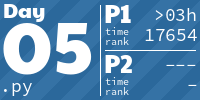
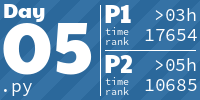
2023 - Day 5
Contains at least one off-by-one error, but yielded correct answer for part 2 anyways

Changed region(s): [[0.72, 0.78, 0.99, 0.93], [0.78, 0.57, 0.99, 0.72]]

diff --git a/ibidem/advent_of_code/y2023/dec05.py b/ibidem/advent_of_code/y2023/dec05.py
@@ -1,7 +1,51 @@
 #!/usr/bin/env python
+import functools
 import itertools
+from collections import namedtuple
+from typing import Iterable
 
 from ibidem.advent_of_code.util import get_input_name
+
+
+class Range(namedtuple("Range", ("start", "length"))):
+    @property
+    def end(self):
+        return self.start + self.length
+
+
+@functools.total_ordering
+class RangeMap:
+    def __init__(self, dest_start, source_start, length):
+        self.dest_start = dest_start
+        self.source_start = source_start
+        self.length = length
+        self._source_end = source_start + length
+
+    def __eq__(self, other):
+        return (self.dest_start, self.source_start, self.length) == (other.dest_start, other.source_start, other.length)
+
+    def __lt__(self, other):
+        return (self.dest_start, self.source_start, self.length) < (other.dest_start, other.source_start, other.length)
+
+    def cut(self, range: Range) -> (Iterable[Range], Iterable[Range]):
+        """Divide range into mapped and unmapped parts."""
+        if range.end <= self.source_start:  # Range is fully before
+            return [range], []
+        if range.start > self._source_end:  # Range is fully after
+            return [range], []
+        if range.start >= self.source_start and range.end <= self._source_end:  # Range is fully inside
+            return [], [Range(self.dest_start + range.start - self.source_start, range.length)]
+
+        if range.start < self.source_start and range.end < self._source_end:  # Range overlaps before
+            return [Range(range.start, self.source_start - range.start)], [
+                Range(self.dest_start, range.length - (self.source_start - range.start))]
+        if self.source_start <= range.start < self._source_end < range.end:  # Range overlaps after
+            return [Range(self._source_end, range.end - self._source_end)], [
+                Range(self.dest_start + range.start - self.source_start, self._source_end - range.start)]
+        # Range completely contains
+        return [Range(range.start, self.source_start - range.start),
+                Range(self._source_end, range.end - self._source_end)], [
+            Range(self.dest_start, self.length)]
 
 
 class Lookup:
@@ -10,13 +54,25 @@ class Lookup:
         self.ranges = []
 
     def add(self, r):
-        self.ranges.append(r)
+        self.ranges.append(RangeMap(*r))
 
     def lookup(self, value):
-        for dest_start, source_start, length in self.ranges:
-            if source_start <= value < source_start + length:
-                return dest_start + value - source_start
+        for range_map in self.ranges:
+            if range_map.source_start <= value < range_map.source_start + range_map.length:
+                return range_map.dest_start + value - range_map.source_start
         return value
+
+    def lookup_range(self, range: Range) -> Iterable[Range]:
+        unmapped = [range]
+        for range_map in self.ranges:
+            new_unmapped = []
+            while unmapped:
+                u, mapped = range_map.cut(unmapped.pop())
+                yield from mapped
+                new_unmapped.extend(u)
+            unmapped = new_unmapped
+        if unmapped:
+            yield from unmapped
 
 
 def load(fobj):
@@ -61,15 +117,17 @@ def batched(iterable, n):
 
 def part2(input):
     seed_data, lookups = input
-    seed_ranges = list(batched(seed_data, 2))
+    seed_ranges = [Range(*r) for r in batched(seed_data, 2)]
     locations = []
-    for seed_start, length in seed_ranges:
-        for seed in range(seed_start, seed_start + length):
-            value = seed
-            for lookup in lookups:
-                value = lookup.lookup(value)
-            locations.append(value)
-    return min(locations)
+    for range in seed_ranges:
+        values = [range]
+        for lookup in lookups:
+            new_values = []
+            for value in values:
+                new_values.extend(lookup.lookup_range(value))
+            values = new_values
+        locations.extend(values)
+    return min(location.start for location in locations)
 
 
 if __name__ == "__main__":

diff --git a/ibidem/advent_of_code/y2023/test/test_dec05.py b/ibidem/advent_of_code/y2023/test/test_dec05.py
@@ -1,8 +1,8 @@
 import io
+
 import pytest
 
-from ibidem.advent_of_code.y2023.dec05 import load, part1, part2
-
+from ibidem.advent_of_code.y2023.dec05 import load, part1, part2, RangeMap, Range, Lookup
 
 TEST_INPUT = io.StringIO("""\
 seeds: 79 14 55 13
@@ -62,7 +62,78 @@ class TestDec05():
     def test_part1(self, loaded):
         result = part1(loaded)
         assert result == PART1_RESULT
-        
+
     def test_part2(self, loaded):
         result = part2(loaded)
         assert result == PART2_RESULT
+
+
+class TestRangeMap:
+    def test_cut_fully_before(self):
+        range_map = RangeMap(16, 5, 3)
+        unmapped, mapped = range_map.cut(Range(0, 4))
+        assert list(unmapped) == [(0, 4)]
+        assert list(mapped) == []
+
+    def test_cut_fully_after(self):
+        range_map = RangeMap(16, 0, 3)
+        unmapped, mapped = range_map.cut(Range(5, 5))
+        assert list(unmapped) == [(5, 5)]
+        assert list(mapped) == []
+
+    def test_cut_fully_inside(self):
+        range_map = RangeMap(16, 0, 6)
+        unmapped, mapped = range_map.cut(Range(1, 2))
+        assert list(unmapped) == []
+        assert list(mapped) == [(17, 2)]
+
+    def test_cut_completely_contains(self):
+        range_map = RangeMap(16, 2, 3)
+        unmapped, mapped = range_map.cut(Range(0, 10))
+        assert list(unmapped) == [(0, 2), (5, 5)]
+        assert list(mapped) == [(16, 3)]
+
+    def test_cut_overlaps_before(self):
+        range_map = RangeMap(16, 2, 5)
+        unmapped, mapped = range_map.cut(Range(0, 6))
+        assert list(unmapped) == [(0, 2)]
+        assert list(mapped) == [(16, 4)]
+
+    def test_cut_overlaps_after(self):
+        range_map = RangeMap(16, 2, 5)
+        unmapped, mapped = range_map.cut(Range(4, 6))
+        assert list(unmapped) == [(7, 3)]
+        assert list(mapped) == [(18, 3)]
+
+    def test_cut_edge(self):
+        range_map = RangeMap(16, 2, 2)
+        unmapped, mapped = range_map.cut(Range(3, 1))
+        assert list(unmapped) == []
+        assert list(mapped) == [(17, 1)]
+
+
+class TestLookup:
+    def test_range_simple(self):
+        lookup = Lookup("simple")
+        lookup.add((16, 0, 3))
+        lookup.add((13, 3, 3))
+        lookup.add((10, 6, 3))
+        result = lookup.lookup_range(Range(0, 10))
+        assert list(result) == [Range(16, 3), Range(13, 3), Range(10, 3), Range(9, 1)]
+
+    def test_range_advanced(self):
+        lookup = Lookup("advanced")
+        lookup.add((7, 3, 2))
+        lookup.add((3, 8, 2))
+        lookup.add((9, 5, 1))
+        lookup.add((5, 7, 1))
+        result = lookup.lookup_range(Range(1, 10))
+        assert list(sorted(result)) == [
+            Range(1, 2),
+            Range(3, 2),
+            Range(5, 1),
+            Range(6, 1),
+            Range(7, 2),
+            Range(9, 1),
+            Range(10, 1)
+        ]
